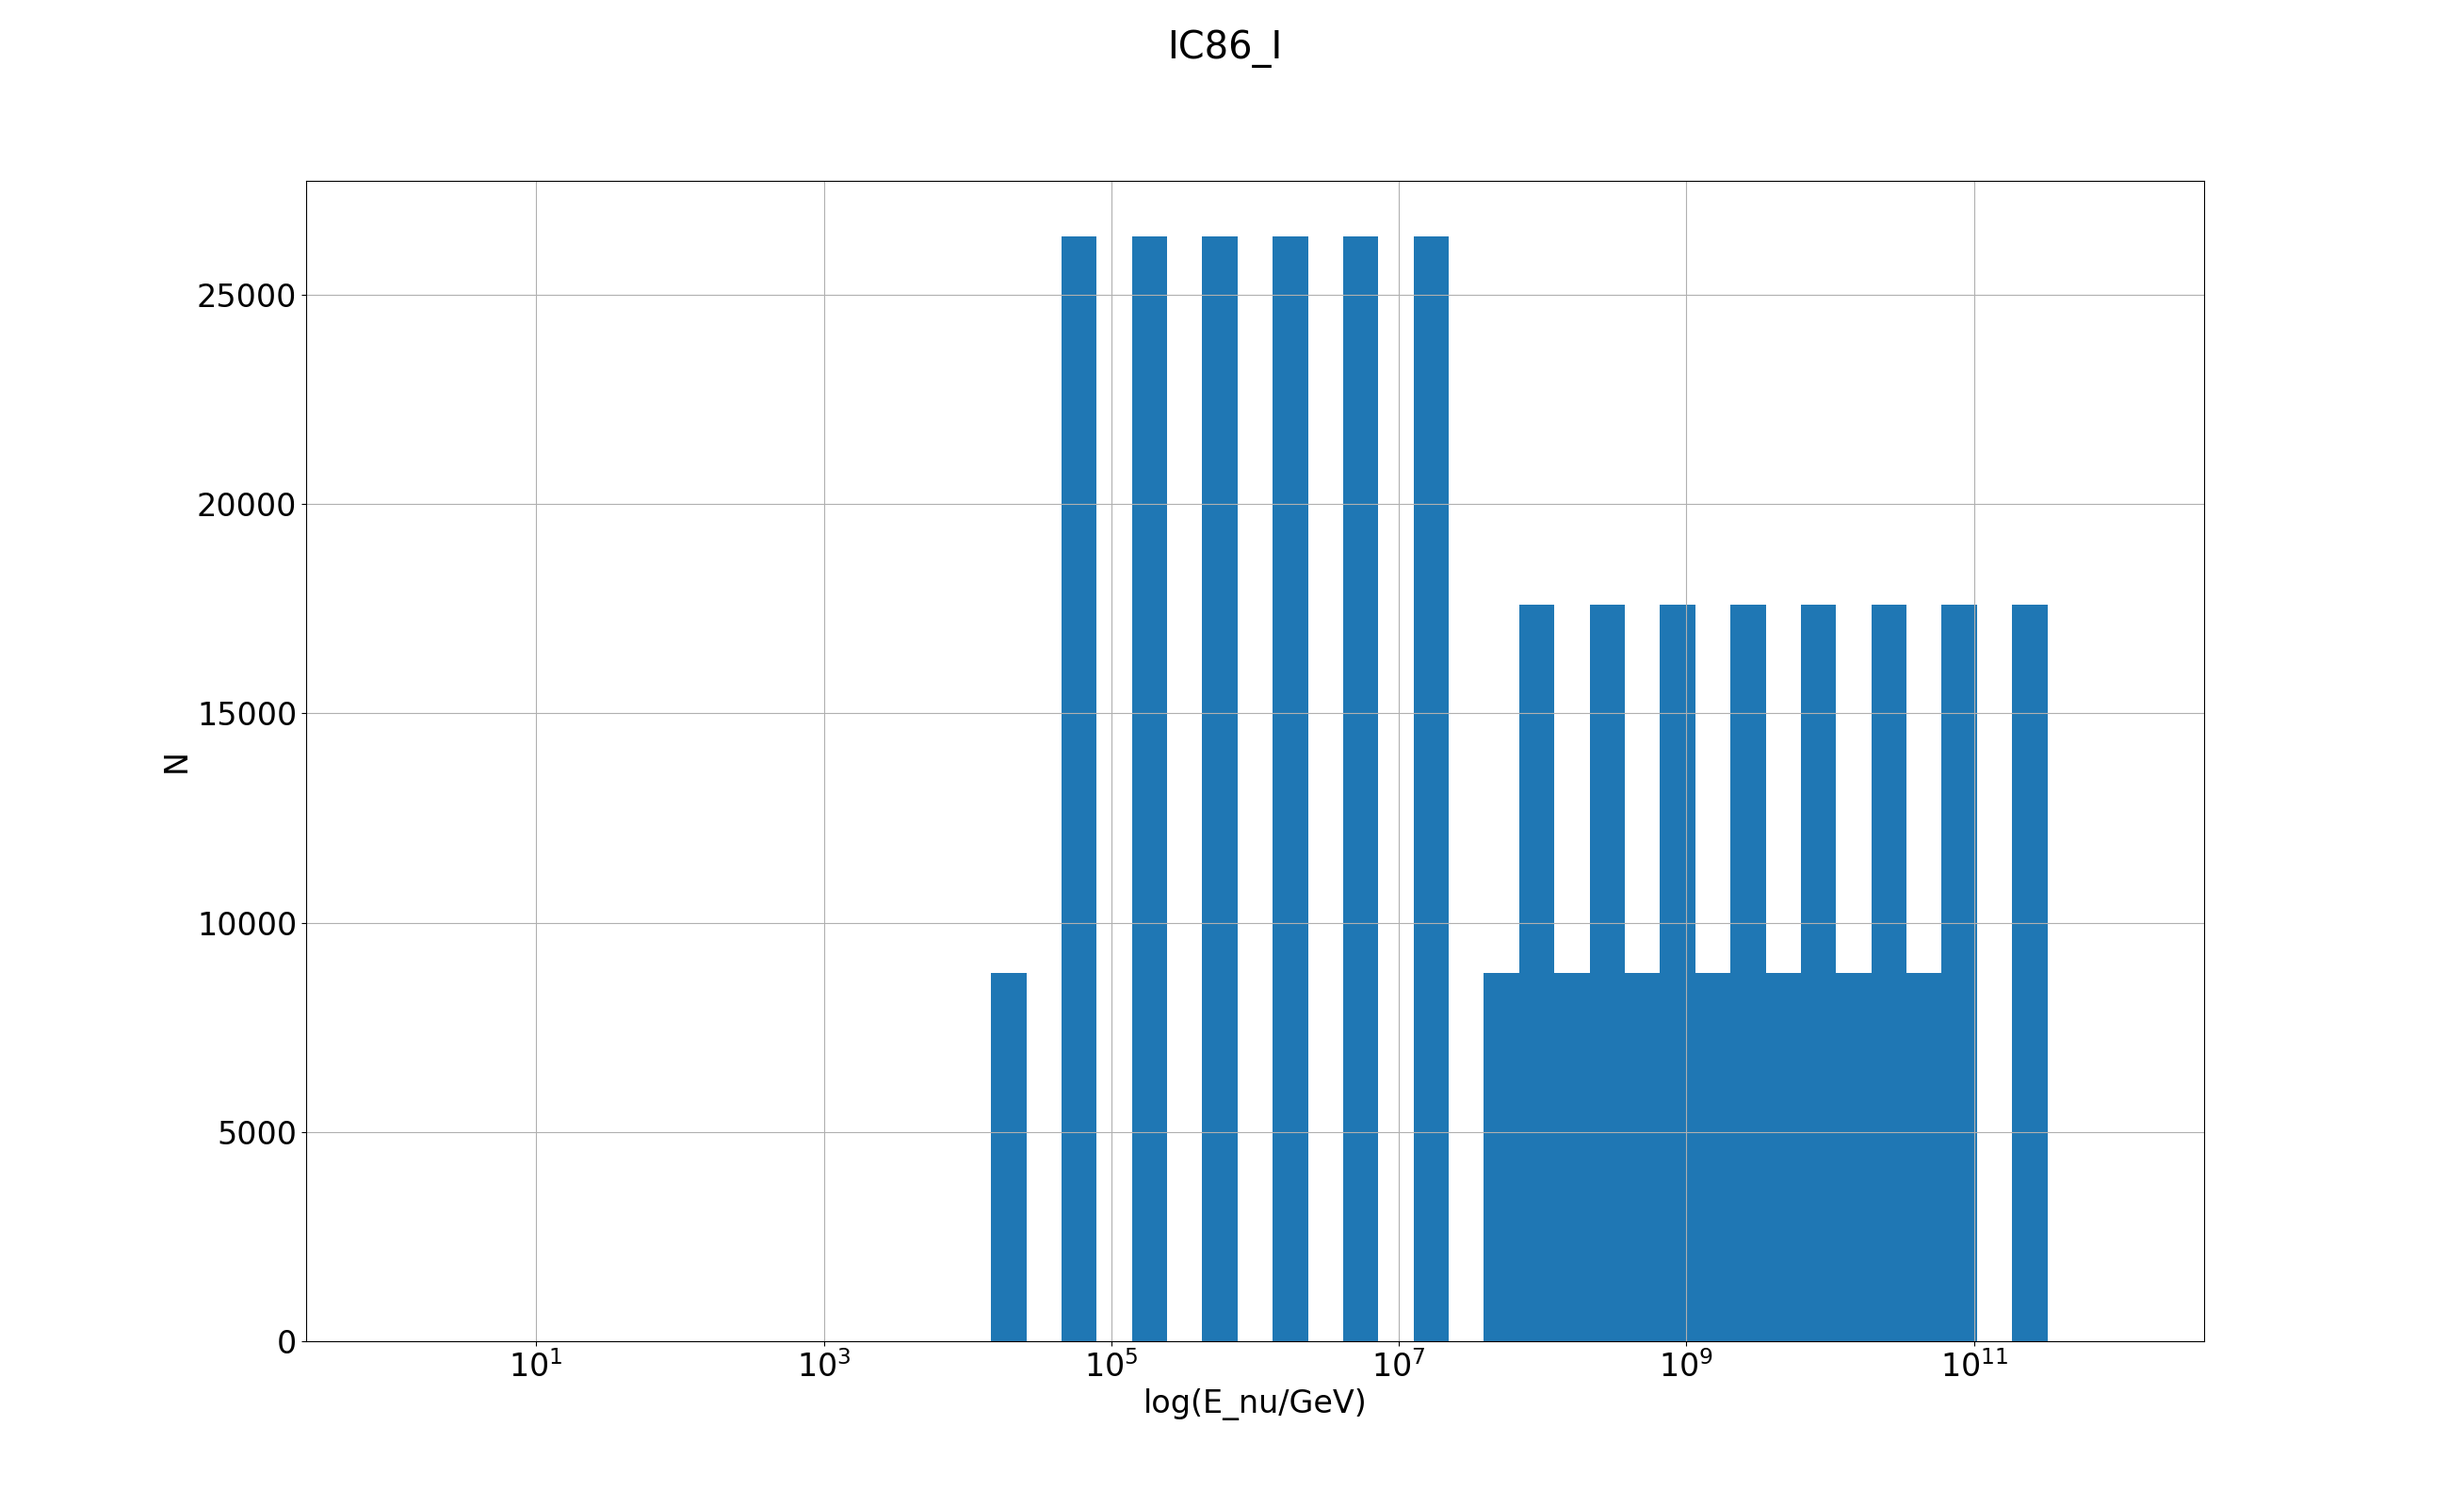
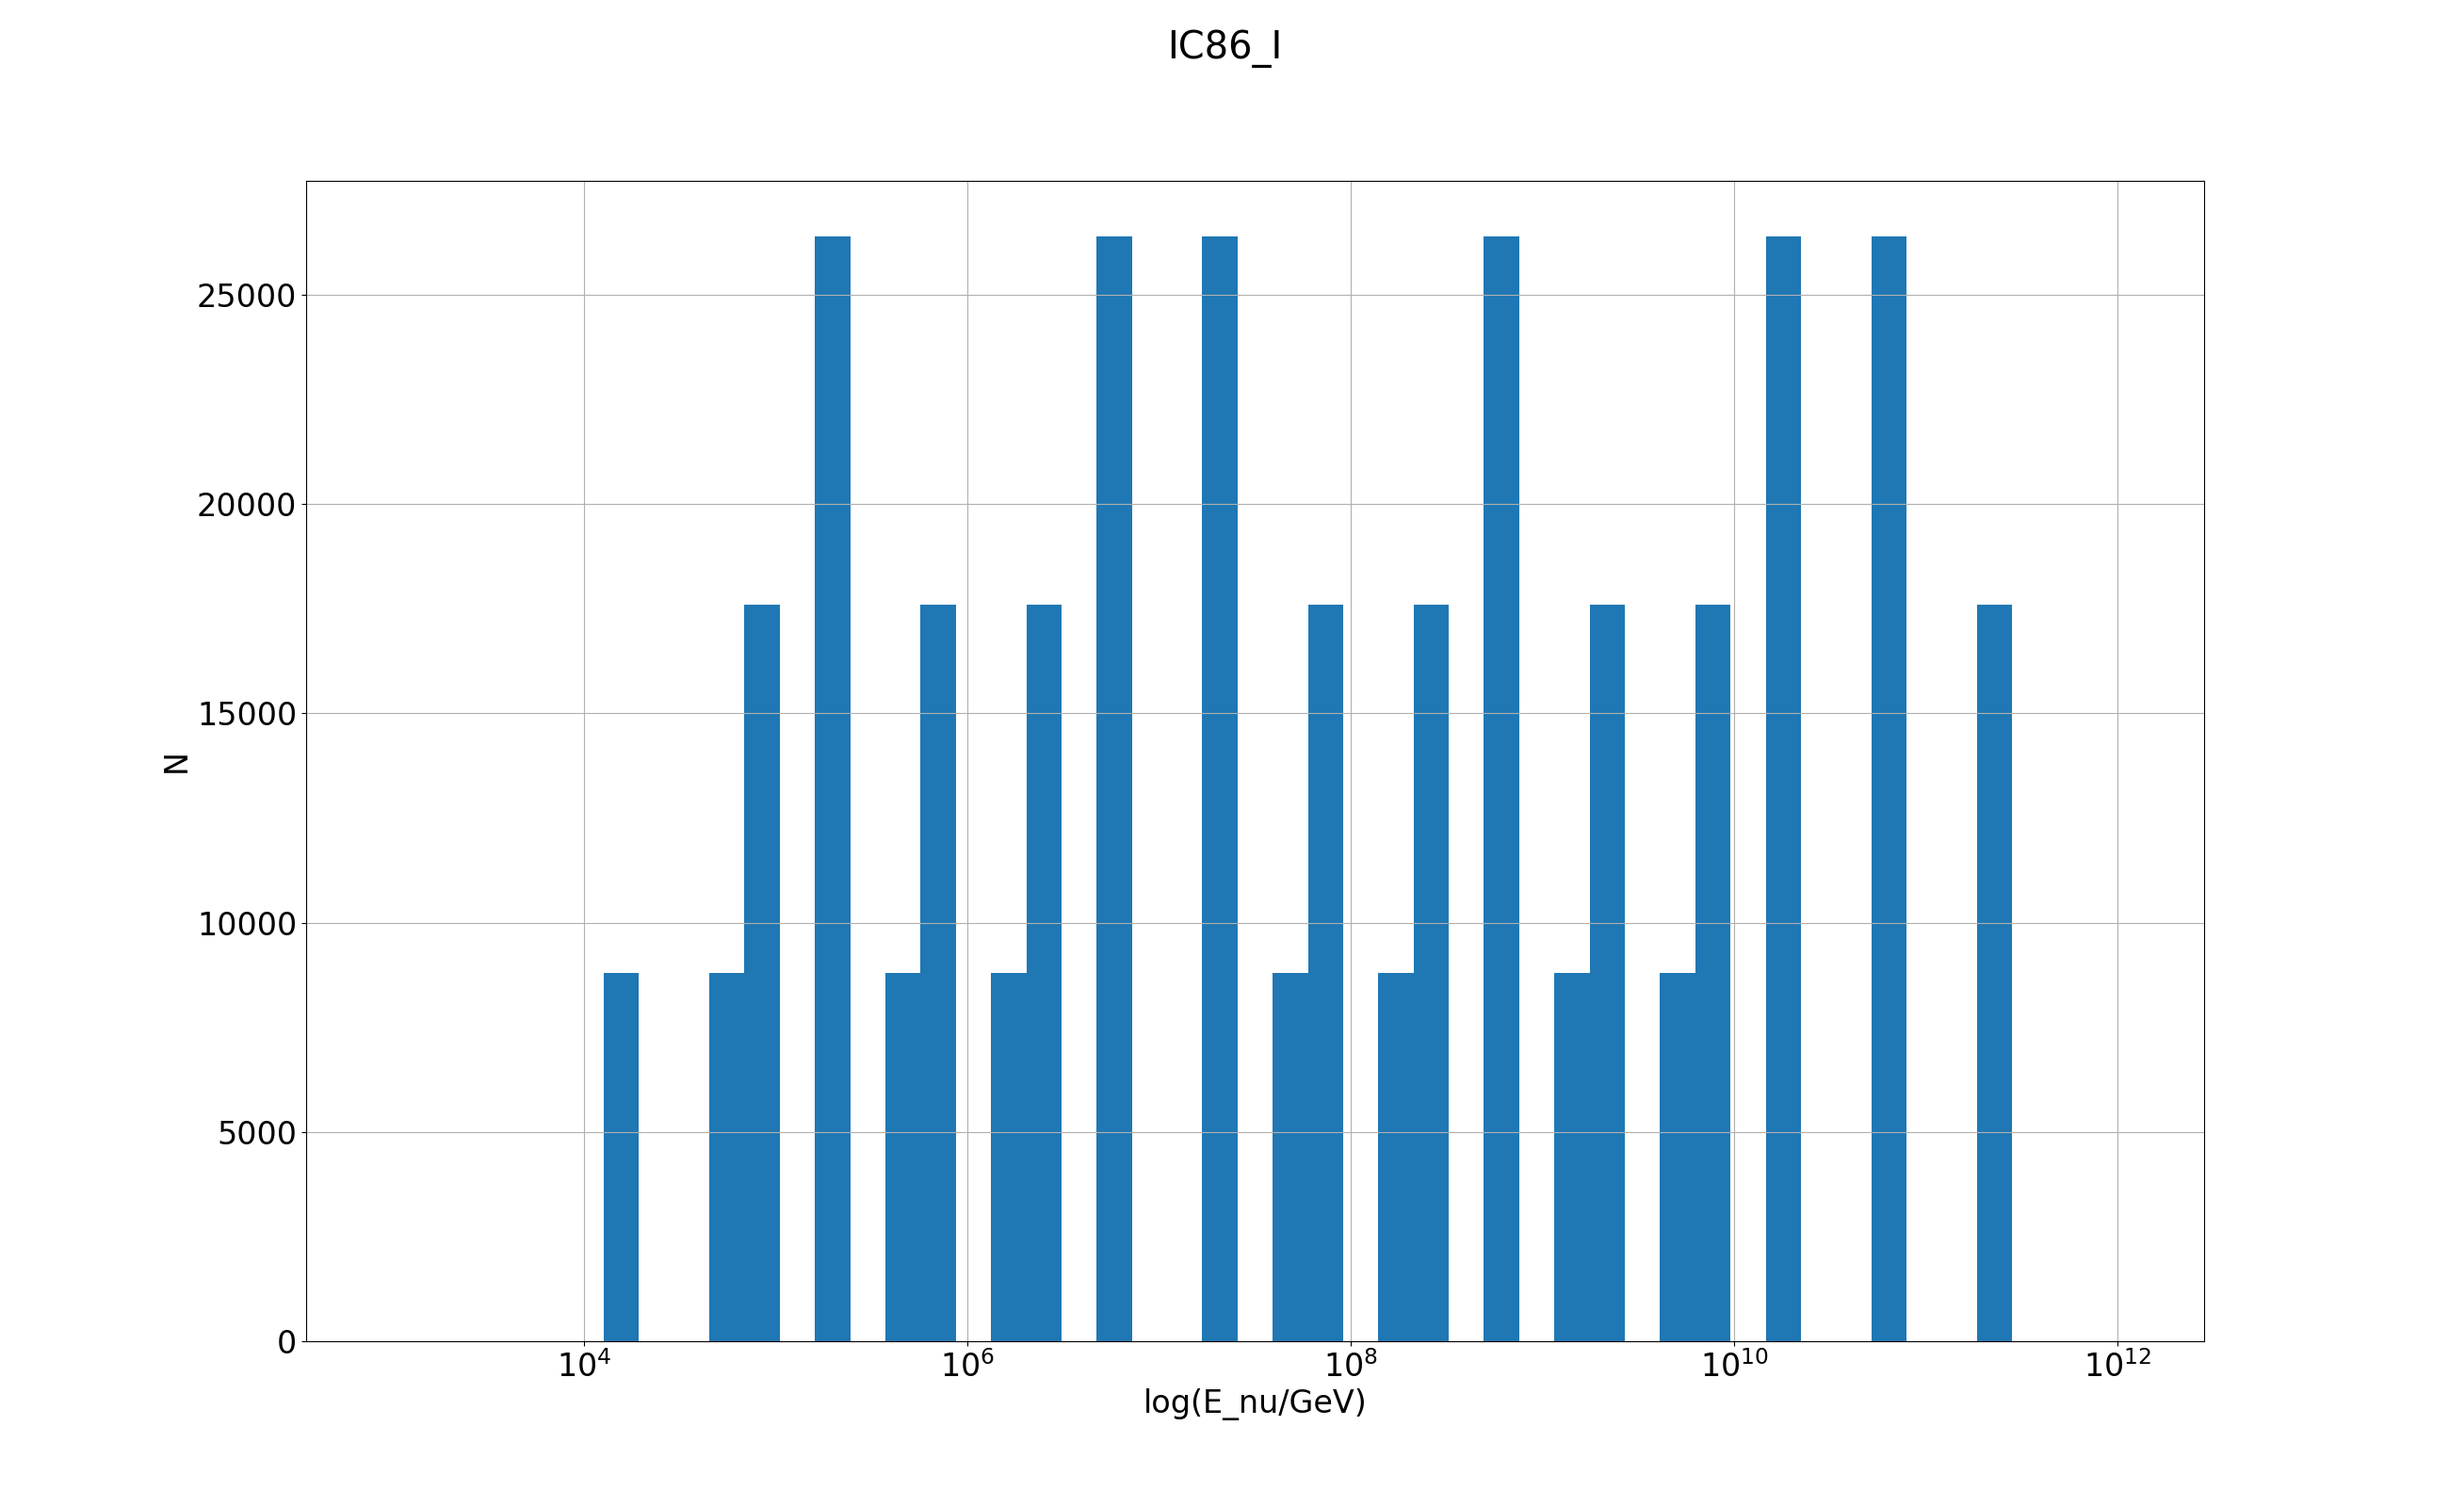
06062022-00.10-task1b?

Changed region(s): [[0.2181, 0.1562, 0.8412, 0.9062]]

diff --git a/Task1b/hist.py b/Task1b/hist.py
@@ -37,7 +37,7 @@ def n_e_hist(file):
 
     plt.figure(figsize=(26,16))
     plt.rcParams.update({'font.size': 24})
-    plt.hist(yax, bins= np.logspace(np.log10(1),12))
+    plt.hist(yax, bins= np.logspace(3,12))
     plt.xscale("log")
     plt.xlabel("log(E_nu/GeV)")
     plt.ylabel("N")
